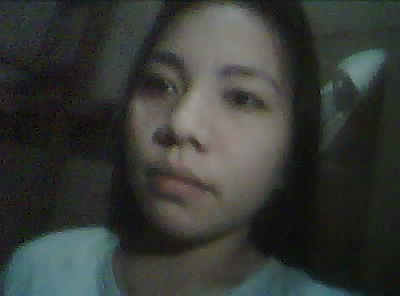
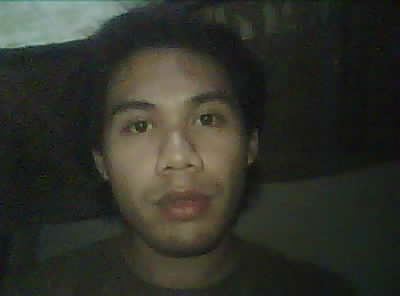
[ejie] - adding a scheduling on face recognation pattern based on faculty schedules
adding code based on demands like faculty scheduling function embed with face recognition and auto detect if no schedule on that time for one authorized personnel

diff --git a/python/process_image.py b/python/process_image.py
@@ -10,22 +10,22 @@ import os
 import io
 import logging
 
-# Suppress TensorFlow logs
+
 os.environ['TF_CPP_MIN_LOG_LEVEL'] = '3'
-os.environ['TF_ENABLE_ONEDNN_OPTS'] = '0'  # Disable oneDNN optimizations
+os.environ['TF_ENABLE_ONEDNN_OPTS'] = '0' 
 logging.getLogger('tensorflow').setLevel(logging.ERROR)
 
-# Redirect stderr to avoid printing TensorFlow logs
+
 sys.stderr = open(os.devnull, 'w')
 
-# Force UTF-8 encoding for standard input/output
+
 sys.stdout = io.TextIOWrapper(sys.stdout.buffer, encoding='utf-8')
 
 try:
-    # Initialize FaceNet
+   
     embedder = FaceNet()
 
-    # Cache embeddings in memory
+   
     embeddings_path = '../embeddings/user_embeddings.pkl'
     if 'embedding_db' not in globals():
         if not os.path.exists(embeddings_path):
@@ -33,10 +33,10 @@ try:
         with open(embeddings_path, 'rb') as f:
             embedding_db = pickle.load(f)
 
-    # Haar cascade for face detection
+   
     face_cascade = cv2.CascadeClassifier(cv2.data.haarcascades + 'haarcascade_frontalface_default.xml')
 
-    # Load the captured frame
+  
     if len(sys.argv) < 2:
         raise ValueError("Image path argument is missing")
 
@@ -46,20 +46,20 @@ try:
     if frame is None:
         raise ValueError(f"Failed to load image from {image_path}")
 
-    # Resize the frame to a smaller resolution for faster processing
-    frame = cv2.resize(frame, (320, 240))  # Resize to 320x240 for faster processing
+   
+    frame = cv2.resize(frame, (320, 240)) 
 
-    # Invert the captured frame horizontally
+ 
     inverted_frame = cv2.flip(frame, 1)
 
-    # Save the inverted captured frame
+  
     captured_frame_path = '../captured_frames/captured_frame_inverted.png'
     cv2.imwrite(captured_frame_path, inverted_frame)
 
-    # Convert to grayscale for face detection
+  
     gray = cv2.cvtColor(inverted_frame, cv2.COLOR_BGR2GRAY)
 
-    # Optimize face detection parameters
+   
     faces = face_cascade.detectMultiScale(
         gray,
         scaleFactor=1.2,
@@ -73,45 +73,45 @@ try:
 
     results = []
     for (x, y, w, h) in faces:
-        # Crop the face region
+       
         face_img = inverted_frame[y:y+h, x:x+w]
         face_pil = Image.fromarray(cv2.resize(face_img, (160, 160))).convert('RGB')
 
-        # Generate embeddings for the cropped face
+       
         embedding = embedder.embeddings([np.array(face_pil)])[0]
 
-        # Compare embeddings with the database
+       
         similarities = {name: cosine_similarity([embedding], [ref])[0][0] for name, ref in embedding_db.items()}
         best_match = max(similarities, key=similarities.get)
         confidence = similarities[best_match]
 
-        # Determine if the face is authorized
+      
         if confidence >= 0.75:
-            label = f"{best_match} ({confidence:.2f})"
-            color = (0, 255, 0)  # Green for authorized
+            label = f"{best_match}"
+            color = (0, 255, 0) 
         else:
             label = f"Unauthorized ({confidence:.2f})"
-            color = (0, 0, 255)  # Red for unauthorized
+            color = (0, 0, 255) 
 
-        # Draw bounding box and label on the original frame
+      
         cv2.rectangle(inverted_frame, (x, y), (x+w, y+h), color, 2)
         cv2.putText(inverted_frame, label, (x, y-10), cv2.FONT_HERSHEY_SIMPLEX, 0.8, color, 2)
 
-        # Append the result
+       
         results.append({
             'label': label,
-            'confidence': float(confidence)  # Convert float32 to native Python float
+            'confidence': float(confidence) 
         })
 
-    # Save the inverted processed frame
+  
     processed_frame_path = '../captured_frames/processed_frame_inverted.png'
     cv2.imwrite(processed_frame_path, inverted_frame)
 
-    # Return results as JSON
+   
     print(json.dumps({'prediction': results}))
 
 except Exception as e:
-    # Log the error and return it
+  
     error_log_path = '../logs/python_error.log'
     with open(error_log_path, 'a') as log_file:
         log_file.write(f"Error: {str(e)}\n")

diff --git a/admin/livecamera.php b/admin/livecamera.php
@@ -415,7 +415,7 @@
             </div>
             <div class="card-body pc-component">
               <!-- Video element for live camera feed -->
-              <img id="liveCamera" crossorigin="anonymous" src="http://192.168.3.59/stream" class="img-fluid d-block w-100" style="border: 1px solid #ddd; transform: scaleX(-1);" />
+              <img id="liveCamera" crossorigin="anonymous" src="http://192.168.64.49/stream" class="img-fluid d-block w-100" style="border: 1px solid #ddd; transform: scaleX(-1);" />
 <p class="text-muted mt-2">Ensure your browser has access to the camera.</p>
 <canvas id="capturedFrame" class="d-none"></canvas>
 <div id="countdown">5</div>
@@ -488,14 +488,45 @@ async function captureFrame() {
 
         const data = await response.json();
 
-        if (data.error) {
-            predictionResult.textContent = `Error: ${data.error}`;
-        } else if (data.prediction && data.prediction.length > 0) {
-            const result = data.prediction[0];
-            predictionResult.textContent = `Status: ${result.label}, Confidence: ${result.confidence.toFixed(2)}`;
-        } else {
-            predictionResult.textContent = 'No prediction results.';
-        }
+        if (data.prediction && data.prediction.length > 0) {
+              const result = data.prediction[0];
+              const label = result.label;
+              const confidence = result.confidence.toFixed(2);
+
+              if (label.toLowerCase() !== 'unauthorized') {
+                  const scheduleResponse = await fetch('../backend/check_schedule.php', {
+                      method: 'POST',
+                      headers: {
+                          'Content-Type': 'application/json',
+                      },
+                      body: JSON.stringify({ name: label }),
+                  });
+
+                  const scheduleData = await scheduleResponse.json();
+
+                  if (scheduleData.status === 'granted') {
+                      predictionResult.innerHTML = `
+                          <strong>Status:</strong> Access Granted ✅<br>
+                          <strong>Faculty:</strong> ${label}<br>
+                          <strong>Confidence:</strong> ${confidence}<br>
+                          <strong>Room:</strong> ${scheduleData.room}<br>
+                          <strong>Time:</strong> ${scheduleData.time}
+                      `;
+                  } else {
+                      predictionResult.innerHTML = `
+                          <strong>Status:</strong> Access Denied ❌<br>
+                          <strong>Faculty:</strong> ${label}<br>
+                          <strong>Confidence:</strong> ${confidence}<br>
+                          <em>${scheduleData.message}</em>
+                      `;
+                  }
+              } else {
+                  predictionResult.innerHTML = `<strong>Status:</strong> Access Denied ❌<br><em>Unauthorized individual.</em>`;
+              }
+          } else {
+              predictionResult.textContent = 'No prediction results.';
+          }
+
     } catch (error) {
         console.error('Error:', error);
         predictionResult.textContent = 'Error processing the frame.';

diff --git a/backend/check_schedule.php b/backend/check_schedule.php
@@ -1,0 +1,72 @@
+<?php
+include('../db_connection/conn.php');
+date_default_timezone_set('Asia/Manila');
+
+$input = json_decode(file_get_contents('php://input'), true);
+$name = trim($input['name']);
+
+$response = [
+    'status' => 'denied',
+    'faculty' => $name,
+    'room' => '',
+    'time' => '',
+    'message' => 'No valid schedule found.'
+];
+
+
+$dayMap = [
+    'Sun' => 'Su',
+    'Mon' => 'M',
+    'Tue' => 'T',
+    'Wed' => 'W',
+    'Thu' => 'Th',
+    'Fri' => 'F',
+    'Sat' => 'Sa'
+];
+
+$currentDay = $dayMap[date('D')] ?? '';
+$currentTime = date('H:i');
+
+$sql = "SELECT * FROM schedules WHERE faculty_teacher = ?";
+$stmt = $conn->prepare($sql);
+$stmt->bind_param("s", $name);
+$stmt->execute();
+$result = $stmt->get_result();
+
+while ($row = $result->fetch_assoc()) {
+    $schedule = $row['schedule'];
+
+   
+    if (preg_match('/(\b[A-Za-z0-9-]+\b)\s+([A-Za-z]+)\s+(\d{1,2}:\d{2}\s*[APMapm]{2})\s+(\d{1,2}:\d{2}\s*[APMapm]{2})/', $schedule, $matches)) {
+        $room = $matches[1];
+        $days = $matches[2];
+        $startTime = date('H:i', strtotime($matches[3]));
+        $endTime = date('H:i', strtotime($matches[4]));
+
+        if (strpos($days, $currentDay) !== false) {
+            $matchFound = false;
+
+            if ($startTime < $endTime) {
+              
+                if ($currentTime >= $startTime && $currentTime <= $endTime) {
+                    $matchFound = true;
+                }
+            } else {
+                
+                if ($currentTime >= $startTime || $currentTime <= $endTime) {
+                    $matchFound = true;
+                }
+            }
+
+            if ($matchFound) {
+                $response['status'] = 'granted';
+                $response['room'] = $room;
+                $response['time'] = date('h:i A', strtotime($matches[3])) . ' - ' . date('h:i A', strtotime($matches[4]));
+                $response['message'] = 'Access Granted';
+                break;
+            }
+        }
+    }
+}
+
+echo json_encode($response);

diff --git a/backend/process_faceframe.php b/backend/process_faceframe.php
@@ -8,14 +8,14 @@ if (!isset($request['image'])) {
 
 $imageData = $request['image'];
 
-// Validate and extract base64 image data
+
 if (strpos($imageData, 'base64,') === false) {
     echo json_encode(['error' => 'Invalid image data format']);
     exit;
 }
 
 $base64 = explode(',', $imageData, 2)[1];
-$base64 = str_replace(' ', '+', $base64); // Handle URL-encoded spaces
+$base64 = str_replace(' ', '+', $base64); 
 $decoded = base64_decode($base64);
 
 if (!$decoded) {
@@ -25,26 +25,26 @@ if (!$decoded) {
 
 $imagePath = '../captured_frames/captured_frame.png';
 
-// Save the image to the server
+
 if (!file_put_contents($imagePath, $decoded)) {
     echo json_encode(['error' => 'Failed to save the image']);
     exit;
 }
 
-// Log file size for debugging
+
 $size = filesize($imagePath);
 file_put_contents('../logs/image_debug.log', "Saved image size: $size bytes\n", FILE_APPEND);
 
-// Call the Python script
-$pythonPath = 'C:\\Users\\Asus\\AppData\\Local\\Programs\\Python\\Python312\\python.exe'; // Your Python path
+
+$pythonPath = 'C:\\Users\\Asus\\AppData\\Local\\Programs\\Python\\Python312\\python.exe'; 
 $scriptPath = '../python/process_image.py';
 $command = escapeshellcmd("$pythonPath $scriptPath $imagePath 2>&1");
 $output = shell_exec($command);
 
-// Log raw output
+
 file_put_contents('../logs/python_raw_output.log', $output, FILE_APPEND);
 
-// Try to extract JSON from the output
+
 $jsonStart = strpos($output, '{');
 $jsonEnd = strrpos($output, '}');
 
@@ -55,14 +55,14 @@ if ($jsonStart !== false && $jsonEnd !== false) {
     $response = null;
 }
 
-// Handle Python script errors
+
 if ($response === null) {
     file_put_contents('../logs/python_error.log', "Failed to parse response: $output\n", FILE_APPEND);
     echo json_encode(['error' => 'Python script error', 'details' => $output]);
     exit;
 }
 
-// Return JSON response to frontend
+
 header('Content-Type: application/json');
 echo json_encode($response);
 ?>

diff --git a/backend/login.php b/backend/login.php
@@ -5,7 +5,7 @@
             $faculty_gmail = $_POST['faculty_gmail'];
             $faculty_password = $_POST['faculty_password'];
 
-            if($faculty_gmail == "admin@gmail.com" && $faculty_password = "admin"){
+            if($faculty_gmail == "admin@gmail.com" && $faculty_password == "admin"){
                 $sqlLogs = "INSERT INTO `logs` (user_id,header_title,message) VALUES ('0','Admin Login','Admin has successfully logged into the system.')";
                 mysqli_query($conn,$sqlLogs);
                 header("Location: ../admin/dashboard.php");
